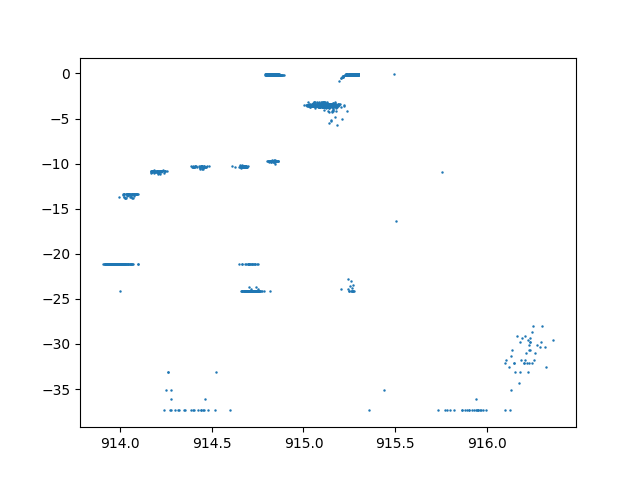
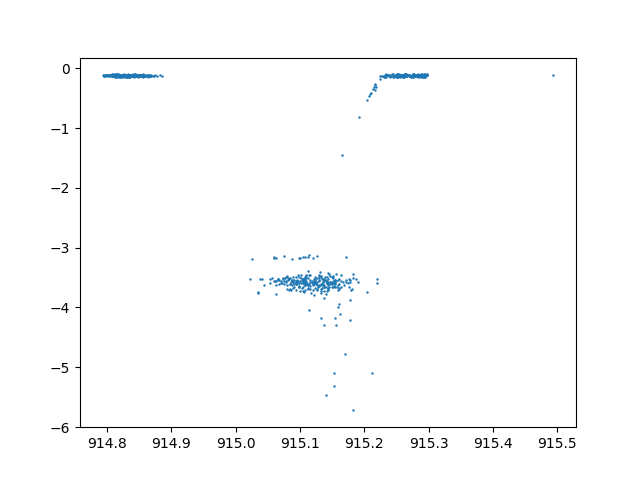
update

diff --git a/graphit.py b/graphit.py
@@ -18,6 +18,11 @@ from glob2 import glob
 
 from scipy.signal import savgol_filter
 from scipy.interpolate import CubicHermiteSpline, Akima1DInterpolator, PchipInterpolator
+
+DAYSBACK=7
+if len(sys.argv)>1:
+    DAYSBACK=int(sys.argv[1])
+
 mpl.rcParams['timezone']='America/Chicago'
 
 lld=[]
@@ -55,7 +60,7 @@ print(mostrecentdate)
 
 # filter only records that have valid 'id' field (not Nan)
 #ids=pdf.id
-goodid= (~(pd.isna(pdf.id))) &  (~(pd.isna(pdf.Consumption))) & (pdf['timestamp'] > (mostrecentdate - 60*60*24*7))
+goodid= (~(pd.isna(pdf.id))) &  (~(pd.isna(pdf.Consumption))) & (pdf['timestamp'] > (mostrecentdate - 60*60*24*DAYSBACK))
 pdf = pdf[goodid]
 pdf['newid'] = [str(x) for x in pdf.id]
 
@@ -246,7 +251,9 @@ yticks = ax[n].get_yticks()
 for ytick in yticks:
     ax[n].axhline(ytick)
 print(yticks)
-
+db = ""
+if DAYSBACK != 7:
+    db=f"-{DAYSBACK}"
 tstamp = datetime.now().strftime('%Y%m%d_%H%M%S')
 plt.savefig(f"/var/www/html/waterusage/chart{tstamp}.png")
-os.rename(f'/var/www/html/waterusage/chart{tstamp}.png','/var/www/html/waterusage/waterusage.png')
+os.rename(f'/var/www/html/waterusage/chart{tstamp}.png',f'/var/www/html/waterusage/waterusage{db}.png')
